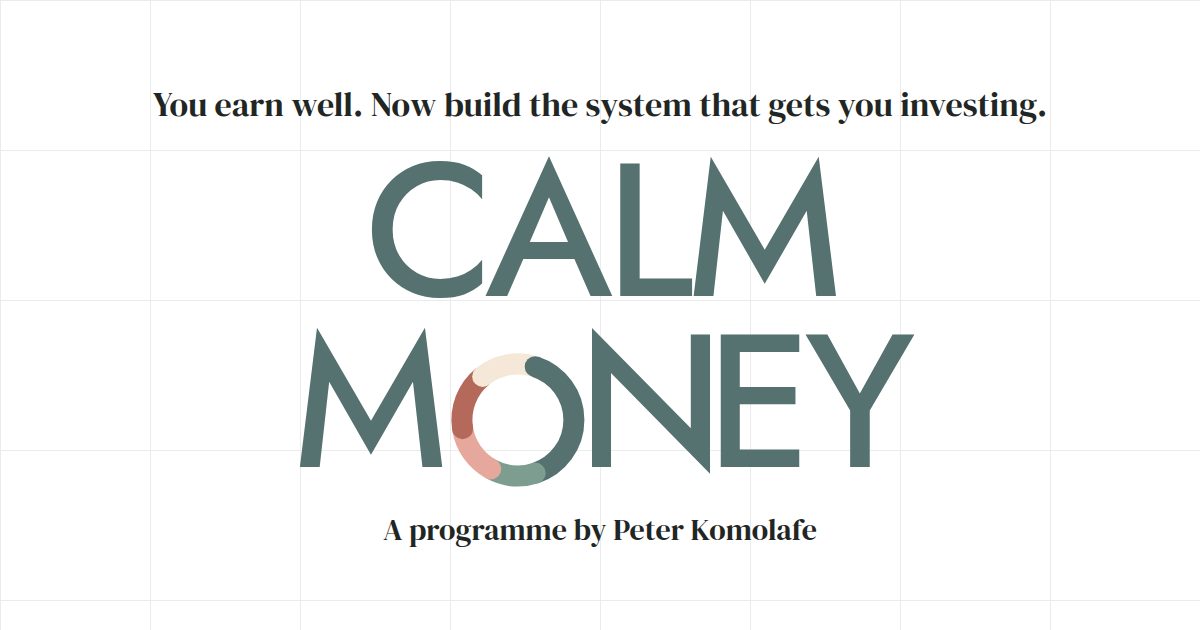
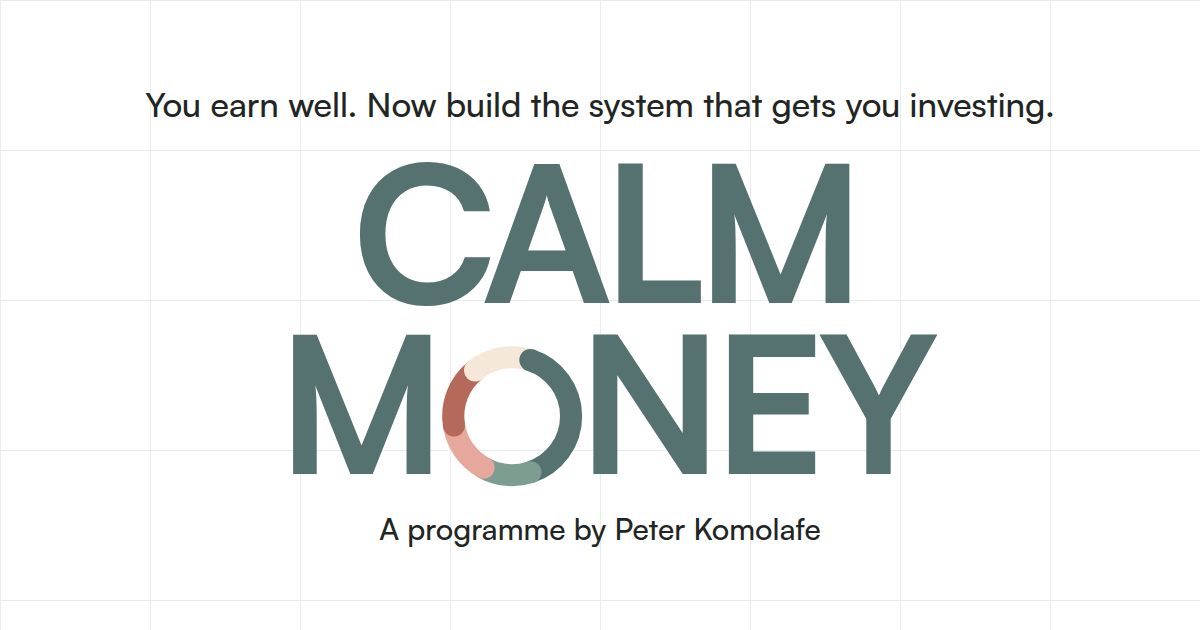
Switch the site to Satoshi
- Satoshi variable font served from /fonts (Fontshare, ITF Free Font License), preloaded; Jost removed
- Wordmark in Satoshi Bold at -4.5% tracking; Jost's hand kerning on N and E dropped
- Kicker and byline in Satoshi Medium
- APR and overdraft notes moved out to clear the wider MONEY (29px+ at 1024 to 1920)
- Social preview image regenerated in Satoshi

Claude-Session: https://claude.ai/code/session_01ToYww7kF1GcmPvqsB1qV74

diff --git a/src/styles/global.css b/src/styles/global.css
@@ -1,3 +1,7 @@
+/* Satoshi (Fontshare, ITF Free Font License): one variable file covers every weight */
+@font-face { font-family: 'Satoshi'; src: url('/fonts/Satoshi-Variable.woff2') format('woff2'); font-weight: 300 900; font-style: normal; font-display: swap; }
+@font-face { font-family: 'Satoshi'; src: url('/fonts/Satoshi-VariableItalic.woff2') format('woff2'); font-weight: 300 900; font-style: italic; font-display: swap; }
+
 /* Brand palette sampled from the Calm Money mark */
 :root {
   --teal: #557170;
@@ -17,7 +21,7 @@
   --graphite: #6f7573; /* handwritten notes */
 
   --font-display: 'DM Serif Display', Georgia, serif;
-  --font-body: 'Jost Variable', 'Jost', system-ui, -apple-system, sans-serif;
+  --font-body: 'Satoshi', system-ui, -apple-system, sans-serif;
 
   /* Stacked shadows (near, far) that make a card look lifted off the page. No tight contact layer: it read as an outline */
   --lift: inset 0 1px 0 rgb(255 255 255 / 0.10), 0 3px 6px rgb(31 38 36 / 0.08),
